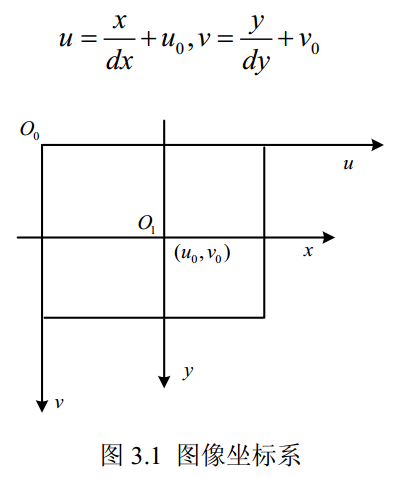
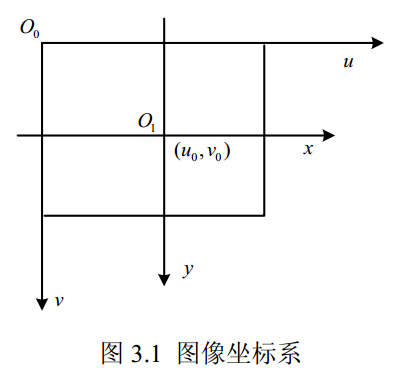
Site updated: 2018-06-25 16:08:00

diff --git a/2018/06/20/2018-06-20-imv-binocular-vision-paper/index.html b/2018/06/20/2018-06-20-imv-binocular-vision-paper/index.html
@@ -90,10 +90,10 @@
 <meta property="og:image" content="http://yoursite.com/2018/06/20/2018-06-20-imv-binocular-vision-paper/a_01实验平台.png">
 <meta property="og:image" content="http://yoursite.com/2018/06/20/2018-06-20-imv-binocular-vision-paper/a_02具体器件.png">
 <meta property="og:image" content="http://yoursite.com/2018/06/20/2018-06-20-imv-binocular-vision-paper/a_03图像坐标系.png">
-<meta property="og:image" content="http://yoursite.com/2018/06/20/2018-06-20-imv-binocular-vision-paper/a_04矩阵形式1.png">
-<meta property="og:image" content="http://yoursite.com/2018/06/20/2018-06-20-imv-binocular-vision-paper/a_05矩阵形式2.png">
-<meta property="og:image" content="http://yoursite.com/2018/06/20/2018-06-20-imv-binocular-vision-paper/a_06世界坐标系_摄像机坐标系.png">
-<meta property="og:updated_time" content="2018-06-25T03:22:56.657Z">
+<meta property="og:image" content="http://yoursite.com/2018/06/20/2018-06-20-imv-binocular-vision-paper/a_04世界坐标系_摄像机坐标系.png">
+<meta property="og:image" content="http://yoursite.com/2018/06/20/2018-06-20-imv-binocular-vision-paper/a_05三角关系示意图.png">
+<meta property="og:image" content="http://yoursite.com/2018/06/20/2018-06-20-imv-binocular-vision-paper/a_06三个坐标系之间的位置关系.png">
+<meta property="og:updated_time" content="2018-06-25T07:30:26.945Z">
 <meta name="twitter:card" content="summary">
 <meta name="twitter:title" content="[机器视觉]读双目视觉论文">
 <meta name="twitter:description" content="精读4篇关于双目视觉的论文，此文为笔记。">
@@ -501,14 +501,21 @@
 <li>两图像间摄像机运动参数的确定</li>
 </ul>
 <h3 id="图像坐标系、摄像机坐标系、世界坐标系"><a href="#图像坐标系、摄像机坐标系、世界坐标系" class="headerlink" title="图像坐标系、摄像机坐标系、世界坐标系"></a>图像坐标系、摄像机坐标系、世界坐标系</h3><h4 id="图像坐标系中的像素单位、物理单位"><a href="#图像坐标系中的像素单位、物理单位" class="headerlink" title="图像坐标系中的像素单位、物理单位"></a>图像坐标系中的像素单位、物理单位</h4><ul>
-<li>以像素为单位的直角坐标系（u,v）——像素单位</li>
-<li>以毫米为单位的物理直角坐标系（x,y）——物理单位<br>PS：每一个像素在x轴、y轴上的物理尺寸为dx,dy</li>
+<li>以像素为单位的直角坐标系（u,v）——像素单位<ul>
+<li><script type="math/tex">d_x</script>,<script type="math/tex">d_y</script>为每一个像素在x轴、y轴上的物理尺寸</li>
 </ul>
-<p>图像中某一点在这两个坐标系下的关系：</p>
-<script type="math/tex; mode=display">u=\frac{x}{d_x}+u_0         ,      v=\frac{y}{d_y}+v_0</script><img src="/2018/06/20/2018-06-20-imv-binocular-vision-paper/a_03图像坐标系.png" title="图像坐标系">
+</li>
+<li>以毫米为单位的物理直角坐标系（x,y）——物理单位<ul>
+<li><script type="math/tex">O_1(u_0,v_0)</script>是x,y坐标系的原点，一般位于图像的中心点，是摄像机光轴与图像平面的交点</li>
+</ul>
+</li>
+</ul>
+<p>图像中某一点在这两个坐标系下的关系<strong>（式3.1）</strong>：</p>
+<script type="math/tex; mode=display">u=\frac{x}{d_x}+u_0, v=\frac{y}{d_y}+v_0</script><img src="/2018/06/20/2018-06-20-imv-binocular-vision-paper/a_03图像坐标系.png" title="图像坐标系">
 <p>矩阵形式：</p>
 <ul>
-<li>像素单位 ← 物理单位<script type="math/tex; mode=display">
+<li><p>像素单位 ← 物理单位<strong>（式3.2）</strong></p>
+<script type="math/tex; mode=display">
 \begin{bmatrix}
   u \\
   v \\
@@ -525,10 +532,8 @@
   y \\
   1 \\
 \end{bmatrix}</script></li>
-</ul>
-<img src="/2018/06/20/2018-06-20-imv-binocular-vision-paper/a_04矩阵形式1.png" title="矩阵形式1">
-<ul>
-<li>物理单位 ← 像素单位<script type="math/tex; mode=display">
+<li><p>物理单位 ← 像素单位<strong>（式3.3）</strong></p>
+<script type="math/tex; mode=display">
 \begin{bmatrix}
   x \\
   y \\
@@ -546,15 +551,200 @@
   1 \\
 \end{bmatrix}</script></li>
 </ul>
-<img src="/2018/06/20/2018-06-20-imv-binocular-vision-paper/a_05矩阵形式2.png" title="矩阵形式2">
 <h4 id="世界坐标系与摄像机坐标系"><a href="#世界坐标系与摄像机坐标系" class="headerlink" title="世界坐标系与摄像机坐标系"></a>世界坐标系与摄像机坐标系</h4><ul>
-<li>摄像机坐标系（空间三维<script type="math/tex">X_c</script>,<script type="math/tex">Y_c</script>,<script type="math/tex">Z_c</script>）</li>
-<li></li>
+<li>摄像机坐标系（空间三维<script type="math/tex">X_c</script>,<script type="math/tex">Y_c</script>,<script type="math/tex">Z_c</script>）<ul>
+<li><script type="math/tex">Z_c</script>轴是摄像机的光轴，垂直于图像坐标系</li>
+<li><script type="math/tex">O_c</script>是摄像机的光心</li>
+<li>摄像机焦距f是光心<script type="math/tex">O_c</script>与图像坐标系中<script type="math/tex">O_1</script>点的连线</li>
 </ul>
-<img src="/2018/06/20/2018-06-20-imv-binocular-vision-paper/a_06世界坐标系_摄像机坐标系.png" title="世界坐标系_摄像机坐标系">
-<p>两个坐标系之间的位置关系：旋转矩阵、平移向量</p>
-<p>线性摄像机成像模型<br>非线性摄像机成像模型</p>
-<h2 id="标定软件系统"><a href="#标定软件系统" class="headerlink" title="标定软件系统"></a>标定软件系统</h2>
+</li>
+<li>世界坐标系（空间三维<script type="math/tex">X_w</script>,<script type="math/tex">Y_w</script>,<script type="math/tex">Z_w</script>）</li>
+</ul>
+<img src="/2018/06/20/2018-06-20-imv-binocular-vision-paper/a_04世界坐标系_摄像机坐标系.png" title="世界坐标系_摄像机坐标系">
+<p>矩阵形式：<br>空间某一点P：</p>
+<ul>
+<li>在<strong>摄像机坐标系</strong>的齐次坐标<script type="math/tex">(X_c \quad Y_c \quad Z_c \quad 1)^T</script></li>
+<li>在<strong>世界坐标系</strong>的齐次坐标<script type="math/tex">(X_w \quad Y_w \quad Z_w \quad 1)^T</script></li>
+<li>两个坐标系之间的位置关系：<strong>旋转矩阵</strong>R、<strong>平移向量</strong>t<ul>
+<li>旋转矩阵R是3*3的正交单位矩阵</li>
+<li>平移向量t是三维列向量：<script type="math/tex">0^T=(0,0,0)^T</script></li>
+</ul>
+</li>
+<li>摄像机坐标系与世界坐标系的关系<strong>（式3.4）</strong></li>
+</ul>
+<script type="math/tex; mode=display">
+\begin{bmatrix}
+    X_c \\
+    Y_c \\
+    Z_c \\
+    1 \\
+\end{bmatrix}
+=
+\begin{bmatrix}
+    R & t \\
+    0^T & 1 \\
+\end{bmatrix}
+\begin{bmatrix}
+    X_w \\
+    Y_w \\
+    Z_w \\
+    1 \\
+\end{bmatrix}
+=
+T_1
+\begin{bmatrix}
+    X_w \\
+    Y_w \\
+    Z_w \\
+    1 \\
+\end{bmatrix}</script><h3 id="线性摄像机成像模型（针孔模型）"><a href="#线性摄像机成像模型（针孔模型）" class="headerlink" title="线性摄像机成像模型（针孔模型）"></a>线性摄像机成像模型（针孔模型）</h3><img src="/2018/06/20/2018-06-20-imv-binocular-vision-paper/a_05三角关系示意图.png" title="三角关系示意图">
+<ul>
+<li><script type="math/tex">p(x,y)</script>为空间中任一点<script type="math/tex">P(X_c,Y_c,Z_c)</script>点与摄像机光心<script type="math/tex">O_c</script>的连线与图像平面的焦点</li>
+<li>f为摄像机焦距</li>
+<li>三角几何关系<strong>（式3.5）</strong>：<script type="math/tex; mode=display">x=\frac{fX_c}{Z_c}, y=\frac{fY_c}{Z_c}</script></li>
+</ul>
+<p>矩阵形式（某一点在<strong>摄像机坐标系</strong>和以毫米为单位的<strong>图像坐标系</strong>之间的关系）<strong>（式3.6）</strong>：</p>
+<script type="math/tex; mode=display">
+Z_c
+\begin{bmatrix}
+    x \\
+    y \\
+    1 \\
+\end{bmatrix}
+=
+\begin{bmatrix}
+    f & 0 & 0 & 0 \\
+    0 & f & 0 & 0 \\
+    0 & 0 & 1 & 0 \\
+\end{bmatrix}
+\begin{bmatrix}
+    X_c \\
+    Y_c \\
+    Z_c \\
+    0   \\
+\end{bmatrix}</script><p><strong>（式3.6）</strong>+<strong>（式3.3）</strong>=P点摄像机坐标与像素坐标之间的关系=<strong>（式3.7）</strong>：</p>
+<script type="math/tex; mode=display">
+Z_c
+\begin{bmatrix}
+    d_x & 0 & -u_0d_x \\
+    0 & d_y & -v_0d_y \\
+    0 & 0 & 1 \\
+\end{bmatrix}
+\begin{bmatrix}
+    u \\
+    v \\
+    1 \\
+\end{bmatrix}
+=
+\begin{bmatrix}
+    f & 0 & 0 & 0 \\
+    0 & f & 0 & 0 \\
+    0 & 0 & 1 & 0 \\
+\end{bmatrix}
+\begin{bmatrix}
+    X_c \\
+    Y_c \\
+    Z_c \\
+    0   \\
+\end{bmatrix}</script><p>整理可得<strong>（式3.8）</strong>：</p>
+<script type="math/tex; mode=display">
+Z_c
+\begin{bmatrix}
+    u \\
+    v \\
+    1 \\
+\end{bmatrix}
+=
+\begin{bmatrix}
+    \frac{1}{d_x} & 0 & u_0 \\
+    0 & \frac{1}{d_y} & v_0 \\
+    0 & 0 & 1 \\
+\end{bmatrix}
+\begin{bmatrix}
+    f & 0 & 0 & 0 \\
+    0 & f & 0 & 0 \\
+    0 & 0 & 1 & 0 \\
+\end{bmatrix}
+\begin{bmatrix}
+    X_c \\
+    Y_c \\
+    Z_c \\
+    0   \\
+\end{bmatrix}</script><p><strong>（式3.8）</strong>+<strong>（式3.4）</strong>=P点在世界坐标系与图像坐标系下的关系=<strong>（式3.9）</strong>：</p>
+<script type="math/tex; mode=display">
+Z_c
+\begin{bmatrix}
+    u \\
+    v \\
+    1 \\
+\end{bmatrix}
+=
+\begin{bmatrix}
+    \frac{1}{d_x} & 0 & u_0 \\
+    0 & \frac{1}{d_y} & v_0 \\
+    0 & 0 & 1 \\
+\end{bmatrix}
+\begin{bmatrix}
+    f & 0 & 0 & 0 \\
+    0 & f & 0 & 0 \\
+    0 & 0 & 1 & 0 \\
+\end{bmatrix}
+\begin{bmatrix}
+    R & t \\
+    0^T & 1 \\
+\end{bmatrix}
+\begin{bmatrix}
+    X_w \\
+    Y_w \\
+    Z_w \\
+    1 \\
+\end{bmatrix}
+\\=
+\begin{bmatrix}
+    α_x & 0 & u_0 & 0 \\
+    0 & α_y & v_0 & 0 \\
+    0 & 0 & 1 & 0 \\
+\end{bmatrix}
+\begin{bmatrix}
+    R & t \\
+    0^T & 1 \\
+\end{bmatrix}
+\begin{bmatrix}
+    X_w \\
+    Y_w \\
+    Z_w \\
+    1 \\
+\end{bmatrix}
+=
+M_1M_2
+\begin{bmatrix}
+    X_w \\
+    Y_w \\
+    Z_w \\
+    1 \\
+\end{bmatrix}
+=M
+\begin{bmatrix}
+    X_w \\
+    Y_w \\
+    Z_w \\
+    1 \\
+\end{bmatrix}</script><p>其中，<script type="math/tex">α_x=f/d_x, α_y=f/d_y</script><br>小结，某一点P从图像坐标系转换到世界坐标系仅需两个变换矩阵：</p>
+<ul>
+<li><script type="math/tex">M_1</script>为摄像机的<strong>内参数矩阵</strong>：只与<strong>摄像机内部结构</strong>有关</li>
+<li><script type="math/tex">M_2</script>为摄像机的<strong>外参数矩阵</strong>：完全由<strong>摄像机</strong>相对于世界坐标系的<strong>方位</strong>决定</li>
+</ul>
+<p>所谓的<strong>相机标定</strong>就是求解这个两个参数矩阵</p>
+<h3 id="各坐标系之间的关系"><a href="#各坐标系之间的关系" class="headerlink" title="各坐标系之间的关系"></a>各坐标系之间的关系</h3><img src="/2018/06/20/2018-06-20-imv-binocular-vision-paper/a_06三个坐标系之间的位置关系.png" title="三个坐标系之间的位置关系">
+<ul>
+<li>世界坐标系<script type="math/tex">{O_W}</script>：机器人基座所在的坐标系</li>
+<li>摄像机坐标系<script type="math/tex">{O_C}</script></li>
+<li>机器人手爪坐标系<script type="math/tex">{O_E}</script></li>
+<li>转换关系<script type="math/tex">^WT_E</script>：<script type="math/tex">{O_E}</script>与<script type="math/tex">{O_W}</script></li>
+<li>转换关系<script type="math/tex">^ET_C</script>：<script type="math/tex">{O_C}</script>与<script type="math/tex">{O_E}</script></li>
+<li>转换关系<script type="math/tex">^WT_C</script>：<script type="math/tex">{O_W}</script>与<script type="math/tex">{O_C}</script></li>
+</ul>
+<h3 id="非线性摄像机成像模型"><a href="#非线性摄像机成像模型" class="headerlink" title="非线性摄像机成像模型"></a>非线性摄像机成像模型</h3><h2 id="标定软件系统"><a href="#标定软件系统" class="headerlink" title="标定软件系统"></a>标定软件系统</h2>
 
 <h3 id="OpenCV的API"><a href="#OpenCV的API" class="headerlink" title="OpenCV的API"></a>OpenCV的API</h3><div class="table-container">
 <table>
@@ -788,7 +978,7 @@
             
 
             
-              <div class="post-toc-content"><ol class="nav"><li class="nav-item nav-level-1"><a class="nav-link" href="#资料查阅"><span class="nav-number">1.</span> <span class="nav-text">资料查阅</span></a><ol class="nav-child"><li class="nav-item nav-level-2"><a class="nav-link" href="#硕士（2篇）"><span class="nav-number">1.1.</span> <span class="nav-text">硕士（2篇）</span></a></li><li class="nav-item nav-level-2"><a class="nav-link" href="#参考文献中的论文"><span class="nav-number">1.2.</span> <span class="nav-text">参考文献中的论文</span></a></li><li class="nav-item nav-level-2"><a class="nav-link" href="#期刊（2篇）"><span class="nav-number">1.3.</span> <span class="nav-text">期刊（2篇）</span></a></li></ol></li><li class="nav-item nav-level-1"><a class="nav-link" href="#硕士-基于OpenCV的机器人双目手眼标定系统的研究与实现"><span class="nav-number">2.</span> <span class="nav-text">硕士_基于OpenCV的机器人双目手眼标定系统的研究与实现</span></a><ol class="nav-child"><li class="nav-item nav-level-2"><a class="nav-link" href="#扫盲"><span class="nav-number">2.1.</span> <span class="nav-text">扫盲</span></a></li><li class="nav-item nav-level-2"><a class="nav-link" href="#摘要"><span class="nav-number">2.2.</span> <span class="nav-text">摘要</span></a></li><li class="nav-item nav-level-2"><a class="nav-link" href="#实验环境"><span class="nav-number">2.3.</span> <span class="nav-text">实验环境</span></a><ol class="nav-child"><li class="nav-item nav-level-3"><a class="nav-link" href="#硬件"><span class="nav-number">2.3.1.</span> <span class="nav-text">硬件</span></a></li><li class="nav-item nav-level-3"><a class="nav-link" href="#软件"><span class="nav-number">2.3.2.</span> <span class="nav-text">软件</span></a></li></ol></li><li class="nav-item nav-level-2"><a class="nav-link" href="#相机标定原理"><span class="nav-number">2.4.</span> <span class="nav-text">相机标定原理</span></a><ol class="nav-child"><li class="nav-item nav-level-3"><a class="nav-link" href="#图像坐标系、摄像机坐标系、世界坐标系"><span class="nav-number">2.4.1.</span> <span class="nav-text">图像坐标系、摄像机坐标系、世界坐标系</span></a><ol class="nav-child"><li class="nav-item nav-level-4"><a class="nav-link" href="#图像坐标系中的像素单位、物理单位"><span class="nav-number">2.4.1.1.</span> <span class="nav-text">图像坐标系中的像素单位、物理单位</span></a></li><li class="nav-item nav-level-4"><a class="nav-link" href="#世界坐标系与摄像机坐标系"><span class="nav-number">2.4.1.2.</span> <span class="nav-text">世界坐标系与摄像机坐标系</span></a></li></ol></li></ol></li><li class="nav-item nav-level-2"><a class="nav-link" href="#标定软件系统"><span class="nav-number">2.5.</span> <span class="nav-text">标定软件系统</span></a><ol class="nav-child"><li class="nav-item nav-level-3"><a class="nav-link" href="#OpenCV的API"><span class="nav-number">2.5.1.</span> <span class="nav-text">OpenCV的API</span></a></li></ol></li></ol></li></ol></div>
+              <div class="post-toc-content"><ol class="nav"><li class="nav-item nav-level-1"><a class="nav-link" href="#资料查阅"><span class="nav-number">1.</span> <span class="nav-text">资料查阅</span></a><ol class="nav-child"><li class="nav-item nav-level-2"><a class="nav-link" href="#硕士（2篇）"><span class="nav-number">1.1.</span> <span class="nav-text">硕士（2篇）</span></a></li><li class="nav-item nav-level-2"><a class="nav-link" href="#参考文献中的论文"><span class="nav-number">1.2.</span> <span class="nav-text">参考文献中的论文</span></a></li><li class="nav-item nav-level-2"><a class="nav-link" href="#期刊（2篇）"><span class="nav-number">1.3.</span> <span class="nav-text">期刊（2篇）</span></a></li></ol></li><li class="nav-item nav-level-1"><a class="nav-link" href="#硕士-基于OpenCV的机器人双目手眼标定系统的研究与实现"><span class="nav-number">2.</span> <span class="nav-text">硕士_基于OpenCV的机器人双目手眼标定系统的研究与实现</span></a><ol class="nav-child"><li class="nav-item nav-level-2"><a class="nav-link" href="#扫盲"><span class="nav-number">2.1.</span> <span class="nav-text">扫盲</span></a></li><li class="nav-item nav-level-2"><a class="nav-link" href="#摘要"><span class="nav-number">2.2.</span> <span class="nav-text">摘要</span></a></li><li class="nav-item nav-level-2"><a class="nav-link" href="#实验环境"><span class="nav-number">2.3.</span> <span class="nav-text">实验环境</span></a><ol class="nav-child"><li class="nav-item nav-level-3"><a class="nav-link" href="#硬件"><span class="nav-number">2.3.1.</span> <span class="nav-text">硬件</span></a></li><li class="nav-item nav-level-3"><a class="nav-link" href="#软件"><span class="nav-number">2.3.2.</span> <span class="nav-text">软件</span></a></li></ol></li><li class="nav-item nav-level-2"><a class="nav-link" href="#相机标定原理"><span class="nav-number">2.4.</span> <span class="nav-text">相机标定原理</span></a><ol class="nav-child"><li class="nav-item nav-level-3"><a class="nav-link" href="#图像坐标系、摄像机坐标系、世界坐标系"><span class="nav-number">2.4.1.</span> <span class="nav-text">图像坐标系、摄像机坐标系、世界坐标系</span></a><ol class="nav-child"><li class="nav-item nav-level-4"><a class="nav-link" href="#图像坐标系中的像素单位、物理单位"><span class="nav-number">2.4.1.1.</span> <span class="nav-text">图像坐标系中的像素单位、物理单位</span></a></li><li class="nav-item nav-level-4"><a class="nav-link" href="#世界坐标系与摄像机坐标系"><span class="nav-number">2.4.1.2.</span> <span class="nav-text">世界坐标系与摄像机坐标系</span></a></li></ol></li><li class="nav-item nav-level-3"><a class="nav-link" href="#线性摄像机成像模型（针孔模型）"><span class="nav-number">2.4.2.</span> <span class="nav-text">线性摄像机成像模型（针孔模型）</span></a></li><li class="nav-item nav-level-3"><a class="nav-link" href="#各坐标系之间的关系"><span class="nav-number">2.4.3.</span> <span class="nav-text">各坐标系之间的关系</span></a></li><li class="nav-item nav-level-3"><a class="nav-link" href="#非线性摄像机成像模型"><span class="nav-number">2.4.4.</span> <span class="nav-text">非线性摄像机成像模型</span></a></li></ol></li><li class="nav-item nav-level-2"><a class="nav-link" href="#标定软件系统"><span class="nav-number">2.5.</span> <span class="nav-text">标定软件系统</span></a><ol class="nav-child"><li class="nav-item nav-level-3"><a class="nav-link" href="#OpenCV的API"><span class="nav-number">2.5.1.</span> <span class="nav-text">OpenCV的API</span></a></li></ol></li></ol></li></ol></div>
             
 
           </div>
